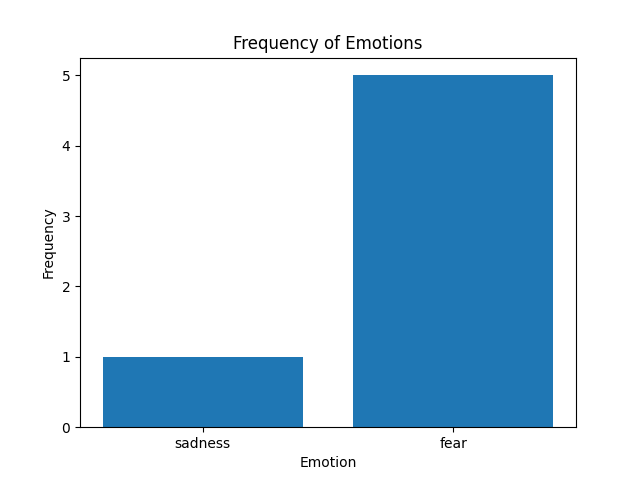
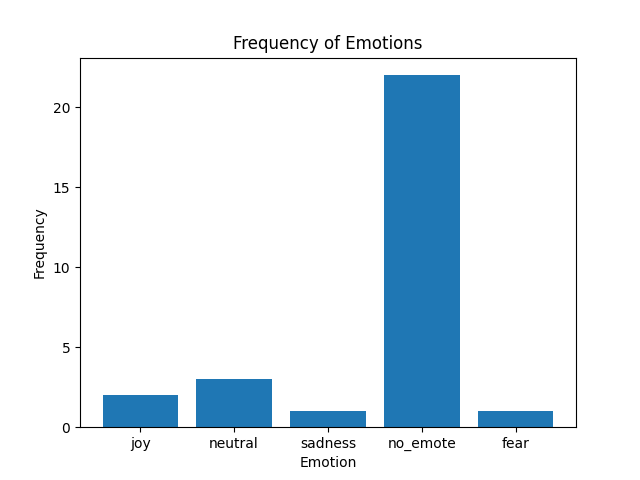
final commit

diff --git a/gui.py b/gui.py
@@ -1,18 +1,9 @@
 import dearpygui.dearpygui as dpg
 from backend import *
-import warnings
-warnings.filterwarnings("ignore")
-
-# globals
-#worksheet_steps = ["How are you feeling today?", "Step 2 Question", "Step 3 Question"] # need to add in these questions
-curr_step = 0
-emotion = "no_emote"
-emote = "no_emote"
-curr_worksheet = []
 
 dpg.create_context()
-#dpg.show_style_editor()
 
+global emotion
 
 '''Other Helper Functions'''
 #the following function is from thiis github discussion page: https://github.com/hoffstadt/DearPyGui/discussions/1072
@@ -23,55 +14,11 @@ def add_and_load_image(image_path, parent=None):
         texture_id = dpg.add_static_texture(width, height, data, parent=reg_id)
 
     if parent is None:
-        return dpg.add_image(texture_id, pos=[100, 320])
+        return dpg.add_image(texture_id)
     else:
-        return dpg.add_image(texture_id, pos=[100, 320], parent=parent)
-
-
-def update_prompt(optional_text):
-    if curr_step < len(worksheets[emote]):
-        dpg.set_value("__prompt_text", value= optional_text + "\n" + worksheets[emote][curr_step])
-    else:
-        dpg.set_value("__prompt_text", value="Journal entry and worksheet complete for today. \nAll input is logged if you ever want to go back and check your progress")
-        
-        #display trend
-        data = load_session_data()
-        emotion_counts = count_emotions(data)
-        plot_emotion_frequency(emotion_counts)
-        add_and_load_image("emotion_frequency_plot.png", parent="journal")
-       
-
-
-
-
-'''The callback functions'''
-def retrieve_text_callback():
-    global curr_step
-    global emote
-    response_text = ""
-    if curr_step == 0:
-        input_text = dpg.get_value("__input_text") # may need to do processing of this input
-        emot = predict_emotions(input_text)
-        emote = emot
-        response_text = respond_to_user(emot)
-        #log_session_data(emot, response_text)
-    else:
-        curr_worksheet.append(dpg.get_value("__input_text"))
-
-    if curr_step == len(worksheets[emote]) - 1:
-        log_session_data(emote, response_text, curr_worksheet)
-    #else: 
-        #in the else scenario, its gonna be saving input to json file
-
-
-    #print(input_text) # for debugging
-    dpg.set_value("__input_text", value="")
-    curr_step = curr_step + 1 # increment the step
-    update_prompt(response_text)
+        return dpg.add_image(texture_id, parent=parent)
 
 def show_form_callback():
-    #global emotion
-    #response_text = ""
     global emotion
     input_text = dpg.get_value("__input_text") # may need to do processing of this input
     emotion = predict_emotions(input_text)
@@ -80,10 +27,11 @@ def show_form_callback():
         create_surprise_window()
         dpg.show_item("surprise_form_window")
     else:
-        create_form_window(emotion)
+        create_form_window()
         dpg.show_item("form_window")
 
 def submit_form(sender, app_data):
+    global emotion
     responses = {}
     for question in worksheets[emotion]:
         if len(question) == 2:
@@ -94,7 +42,7 @@ def submit_form(sender, app_data):
                 if dpg.get_value(item):
                     completed.append(item)
             responses[question[1]] = completed
-    log_session_data(emote, "", responses)
+    log_session_data(emotion, responses)
 
     dpg.delete_item("form_window")
     create_final_window()
@@ -102,9 +50,10 @@ def submit_form(sender, app_data):
 
 
 def surprise_submit_callback(sender, app_data):
+    global emotion
     emotion = dpg.get_value("response-emotion")
     dpg.delete_item("surprise_form_window")
-    create_form_window(emotion)
+    create_form_window()
     dpg.show_item("form_window")
 
 '''The window and all the elements it contains'''
@@ -121,14 +70,13 @@ def create_surprise_window():
         dpg.add_radio_button(items=["joy", "anger", "fear", "neutral"], tag="response-emotion")
         dpg.add_button(label="Submit", callback=surprise_submit_callback) 
 
-def create_form_window(emotion):
+def create_form_window():
+    global emotion
     with dpg.window(label="Form", tag="form_window", width=1000, height=400, show=False, autosize=True):
-        print(emotion)
         dpg.add_text("Our model has detected the emotion you are feeling is " + emotion + ".", tag="model_pred") 
         dpg.add_text(responses[emotion] + "\n\n", tag = "response_text")
         
         for question in worksheets[emotion]:
-            print(question)
             if len(question) == 2:
                 dpg.add_text(question[0], tag = question[1] + "_prompt_text") 
                 dpg.add_input_text(tag=question[1], default_value="", width=300, multiline = True)
@@ -141,7 +89,12 @@ def create_form_window(emotion):
 
 def create_final_window():
     with dpg.window(label="Form", tag="final_window", width=1000, height=400, show=False, autosize=True):
-        dpg.add_text("Journal entry and worksheet complete for today. \nAll input is logged if you ever want to go back and check your progress", tag="end")
+        dpg.add_text("Journal entry and worksheet complete for today. \nAll input is logged if you ever want to go back and check your progress\n\n", tag="end")
+
+        data = load_session_data()
+        emotion_counts = count_emotions(data)
+        plot_emotion_frequency(emotion_counts)
+        add_and_load_image("emotion_frequency_plot.png", parent="final_window")
 
 dpg.create_viewport(title='journal.ai', width=1000, height=720)
 dpg.setup_dearpygui()

diff --git a/backend.py b/backend.py
@@ -5,7 +5,9 @@ warnings.filterwarnings("ignore")
 import json
 from collections import Counter
 from datetime import datetime
+import matplotlib
 import matplotlib.pyplot as plt
+matplotlib.use("Agg")
 
 worksheets = {"anger": [("What situation or event are you angry about?", "reason"), 
                         ("Do you thing there is something deeper causing your anger?", "self-reflection"), 
@@ -73,12 +75,11 @@ def respond_to_user(emotion):
     return responses[emotion]
 
 
-def log_session_data(emotion, response_text, curr_worksheet, output_file="session_log.json"):
+def log_session_data(emotion, curr_worksheet, output_file="session_log.json"):
     session_entry = {
         "date": datetime.now().strftime("%Y-%m-%d"),
         "time": datetime.now().strftime("%H:%M:%S"),
         "emotion": emotion,
-        "response": response_text,
         "worksheet":curr_worksheet
     }
     
@@ -122,7 +123,6 @@ def plot_emotion_frequency(emotion_counts):
     plt.xlabel("Emotion")
     plt.ylabel("Frequency")
     plt.title("Frequency of Emotions")
-    # plt.show()
     plt.savefig("emotion_frequency_plot.png") 
 
 
